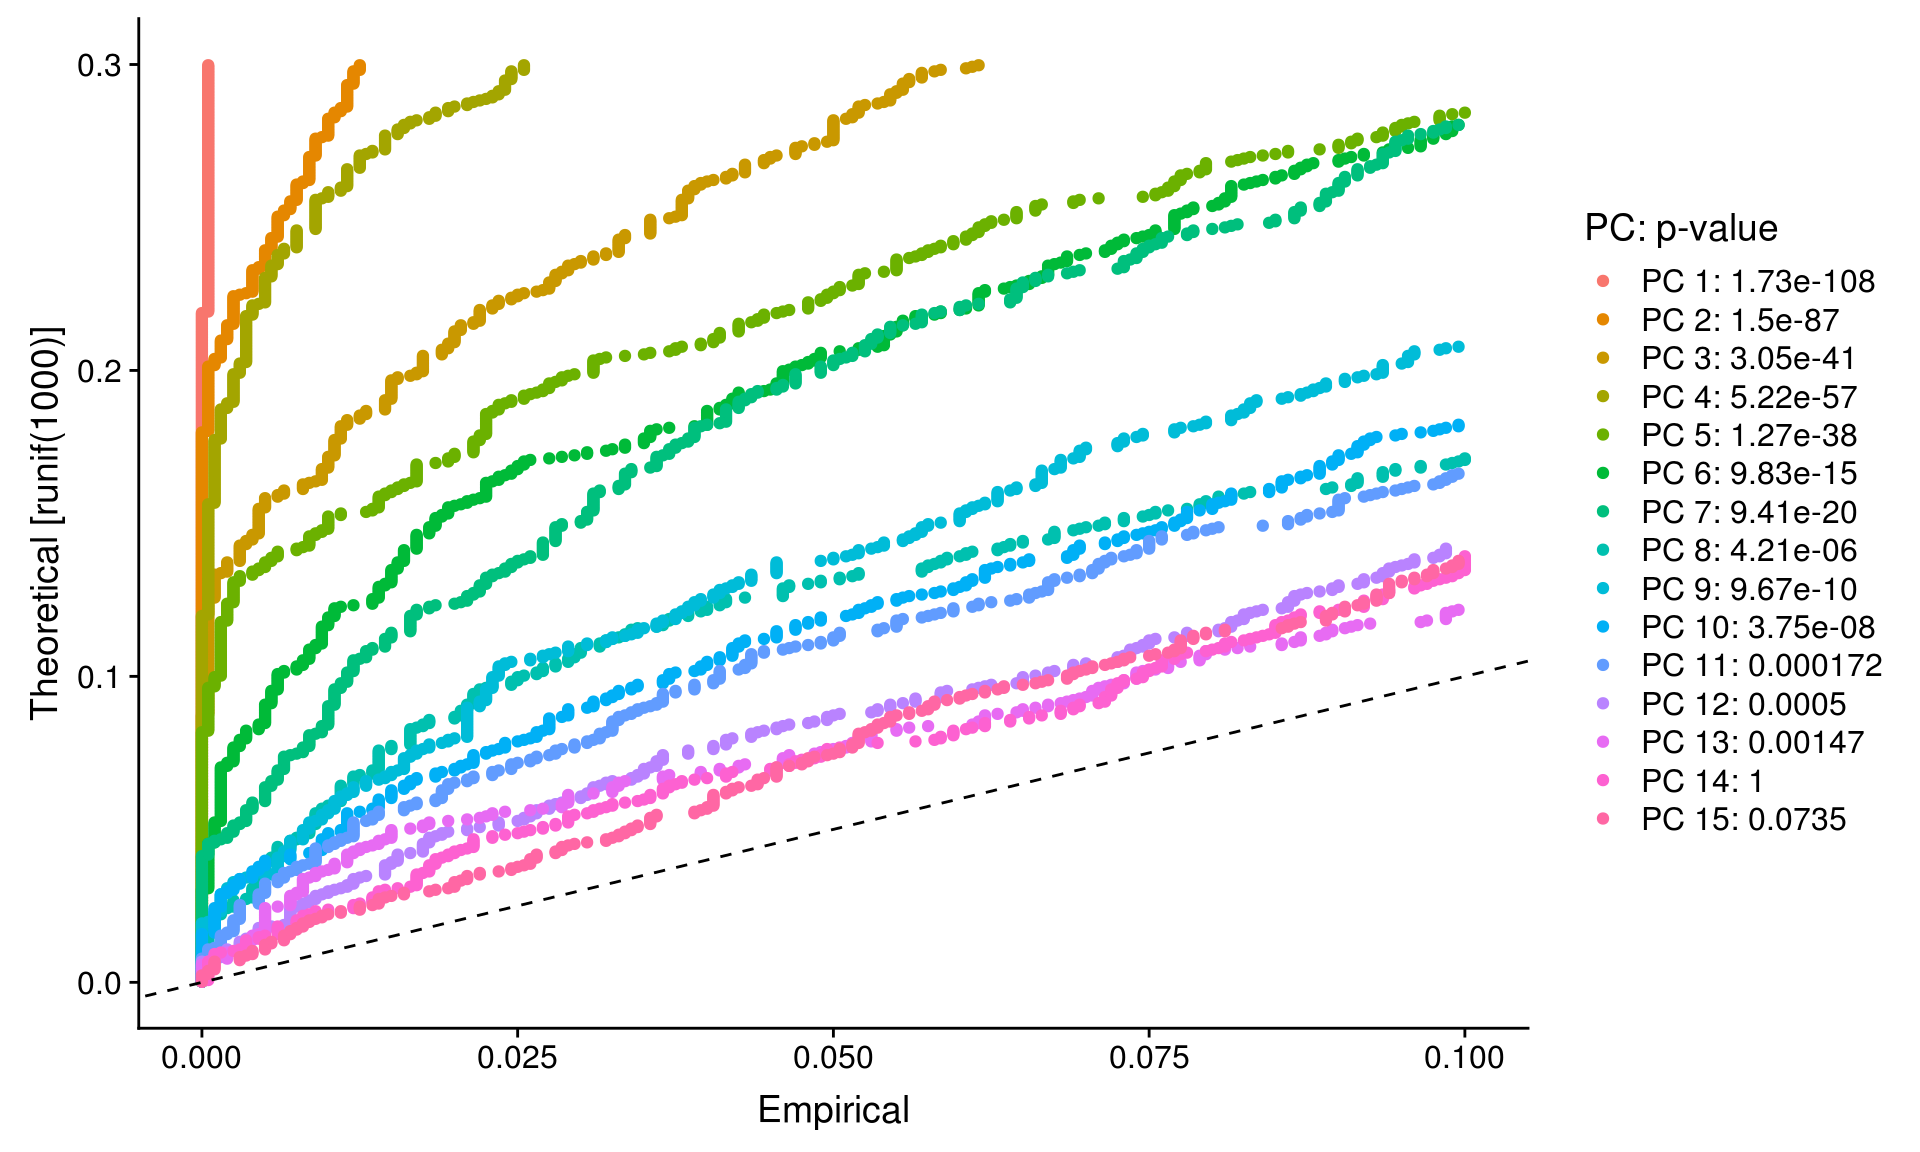
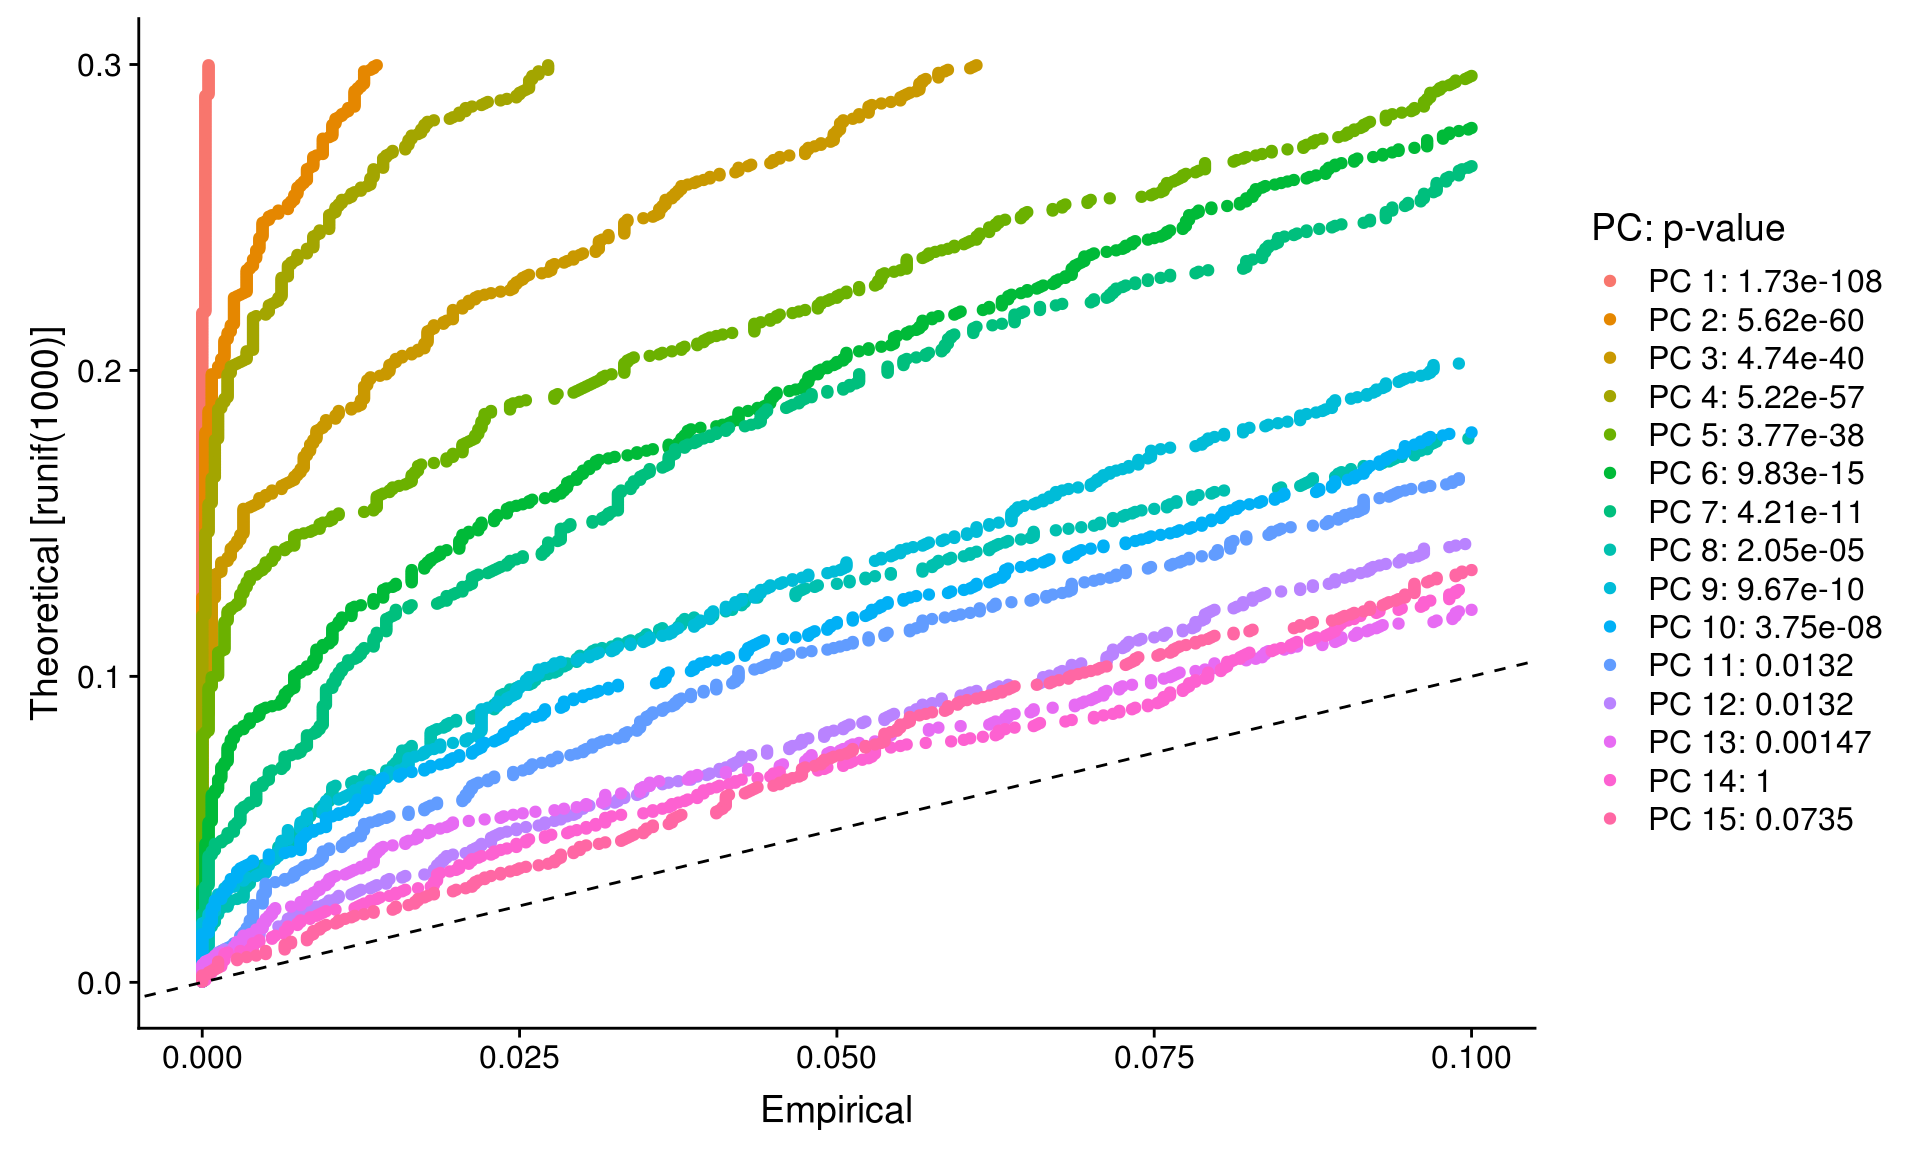
Build site.

diff --git a/docs/analysis.html b/docs/analysis.html
@@ -318,7 +318,7 @@ div.section {
 
 <h1 class="title toc-ignore">Single cell data analysis workshop</h1>
 <h4 class="author"><em>Jon Thompson, Pers lab</em></h4>
-<h4 class="date"><em>2019-05-10 11:22:18</em></h4>
+<h4 class="date"><em>2019-05-10 11:53:46</em></h4>
 
 </div>
 
@@ -422,10 +422,10 @@ This reproducible <a href="http://rmarkdown.rstudio.com">R Markdown</a> analysis
 <div class="panel panel-default">
 <div class="panel-heading">
 <p class="panel-title">
-<a data-toggle="collapse" data-parent="#workflowr-checks" href="#strongRepositoryversionstrongahrefhttpsgithubcomJonThom190510scWorkshoptree9b77751413f883f8f324be34da689f8a667f1469targetblank9b77751a"> <span class="glyphicon glyphicon-ok text-success" aria-hidden="true"></span> <strong>Repository version:</strong> <a href="https://github.com/JonThom/190510-scWorkshop/tree/9b77751413f883f8f324be34da689f8a667f1469" target="_blank">9b77751</a> </a>
+<a data-toggle="collapse" data-parent="#workflowr-checks" href="#strongRepositoryversionstrongahrefhttpsgithubcomJonThom190510scWorkshoptreec43c860e50f1f5aa8c57e308265f41d38402e534targetblankc43c860a"> <span class="glyphicon glyphicon-ok text-success" aria-hidden="true"></span> <strong>Repository version:</strong> <a href="https://github.com/JonThom/190510-scWorkshop/tree/c43c860e50f1f5aa8c57e308265f41d38402e534" target="_blank">c43c860</a> </a>
 </p>
 </div>
[2 lines of base64/hex data omitted]
 <div class="panel-body">
 <p>
 Great! You are using Git for version control. Tracking code development and connecting the code version to the results is critical for reproducibility. The version displayed above was the version of the Git repository at the time these results were generated. <br><br> Note that you need to be careful to ensure that all relevant files for the analysis have been committed to Git prior to generating the results (you can use <code>wflow_publish</code> or <code>wflow_git_commit</code>). workflowr only checks the R Markdown file, but you know if there are other scripts or data files that it depends on. Below is the status of the Git repository when the results were generated:
@@ -473,6 +473,40 @@ Message
 </tr>
 </thead>
 <tbody>
+<tr>
+<td>
+Rmd
+</td>
+<td>
+<a href="https://github.com/JonThom/190510-scWorkshop/blob/c43c860e50f1f5aa8c57e308265f41d38402e534/analysis/analysis.Rmd" target="_blank">c43c860</a>
+</td>
+<td>
+JonThom
+</td>
+<td>
+2019-05-10
+</td>
+<td>
+wflow_publish(“./analysis/analysis.Rmd”)
+</td>
+</tr>
+<tr>
+<td>
+html
+</td>
+<td>
+<a href="https://rawcdn.githack.com/JonThom/190510-scWorkshop/8e266424e41b82584fb463fdaaf8372ebd8a54f0/docs/analysis.html" target="_blank">8e26642</a>
+</td>
+<td>
+JonThom
+</td>
+<td>
+2019-05-10
+</td>
+<td>
+Build site.
+</td>
+</tr>
 <tr>
 <td>
 html
@@ -1198,7 +1232,7 @@ JonThom
 <ol style="list-style-type: decimal">
 <li>Select PCs based on whether interesting genes score highly on them (supervised)</li>
 <li><code>JackStraw</code>: use a statistical test based on a random null model to determine which PCs capture ‘real’ variation versus noise. Time-consuming but unsupervised and rigourous.</li>
-<li><code>ElbowPlot</code>: Use an elbbow plot to select PCs that explain most of the variance in the dataset. A fast heuristic that is commonly used.</li>
+<li><code>ElbowPlot</code>: Use an elbow plot to select PCs that explain most of the variance in the dataset. A fast heuristic that is commonly used.</li>
 </ol>
 <div id="select-pcs-based-on-interesting-genes" class="section level3">
 <h3>Select PCs based on interesting genes</h3>
@@ -1294,9 +1328,8 @@ JonThom
 <li>Randomly ‘scramble’ the gene’s scores across cells and calculate projected PCA loadings for these ‘scambled’ genes. Do this many (200+) times.</li>
 <li>Compare the PCA scores for the ‘random’ genes with the observed PCA scores to obtain a p-value for each gene’s association with each principal component.</li>
 </ol>
-<pre class="r"><code># NOT RUN
-pbmc &lt;- JackStraw(pbmc, 
-                  num.replicate = 100)</code></pre>
+<pre class="r"><code>pbmc &lt;- JackStraw(pbmc, 
+                  num.replicate = 200)</code></pre>
 <ol start="3" style="list-style-type: decimal">
 <li>Use the p-values for each gene per PC to perform a proportion test comparing the number of features with a p-value below a particular threshold (score.thresh), compared with the proportion of features expected under a uniform distribution of p-values. This gives a p-value for each principal component.</li>
 </ol>
@@ -1304,7 +1337,7 @@ pbmc &lt;- JackStraw(pbmc,
                        dims = 1:20)</code></pre>
 <p>The <code>JackStrawPlot</code> function provides a visualization tool for comparing the distribution of p-values for each PC with a uniform distribution (dashed line). ‘Significant’ PCs will show a strong enrichment of features with low p-values (solid curve above the dashed line). In this case it appears that there is a sharp drop-off in significance after the first 10-12 PCs.</p>
 <pre class="r"><code>JackStrawPlot(pbmc, dims = 1:15)</code></pre>
-<pre><code>Warning: Removed 23369 rows containing missing values (geom_point).</code></pre>
+<pre><code>Warning: Removed 23405 rows containing missing values (geom_point).</code></pre>
 <p><img src="figure/analysis.Rmd/unnamed-chunk-23-1.png" width="960" style="display: block; margin: auto;" /></p>
 <p>
 <button type="button" class="btn btn-default btn-xs btn-workflowr btn-workflowr-fig" data-toggle="collapse" data-target="#fig-unnamed-chunk-23-1">
@@ -1400,9 +1433,9 @@ JonThom
 </div>
 <div id="cluster-the-cells" class="section level2">
 <h2>Cluster the cells</h2>
-<p>Seurat v3 applies a graph-based clustering approach, building upon initial strategies in (<a href="http://www.cell.com/abstract/S0092-8674(15)00549-8">Macosko et al</a>). Importantly, the distance metric which drives the clustering analysis (based on previously identified PCs) remains the same. However, our approach to partioning the cellular distance matrix into clusters has dramatically improved. Our approach was heavily inspired by recent manuscripts which applied graph-based clustering approaches to scRNA-seq data <a href="http://bioinformatics.oxfordjournals.org/content/early/2015/02/10/bioinformatics.btv088.abstract">SNN-Cliq, Xu and Su, Bioinformatics, 2015</a> and CyTOF data <a href="http://www.ncbi.nlm.nih.gov/pubmed/26095251">PhenoGraph, Levine et al., Cell, 2015</a>. Briefly, these methods embed cells in a graph structure - for example a K-nearest neighbor (KNN) graph, with edges drawn between cells with similar feature expression patterns, and then attempt to partition this graph into highly interconnected ‘quasi-cliques’ or ‘communities’.</p>
+<p>Seurat v3 applies a graph-based clustering approach, building upon initial strategies in (<a href="http://www.cell.com/abstract/S0092-8674(15)00549-8">Macosko et al</a>). Importantly, the distance metric which drives the clustering analysis (based on previously identified PCs) remains the same as in previous Seurat versions. However, the approach to partioning the cellular distance matrix into clusters has dramatically improved. The approach was heavily inspired by recent manuscripts which applied graph-based clustering approaches to scRNA-seq data <a href="http://bioinformatics.oxfordjournals.org/content/early/2015/02/10/bioinformatics.btv088.abstract">SNN-Cliq, Xu and Su, Bioinformatics, 2015</a> and CyTOF data <a href="http://www.ncbi.nlm.nih.gov/pubmed/26095251">PhenoGraph, Levine et al., Cell, 2015</a>. Briefly, these methods embed cells in a graph structure - for example a K-nearest neighbor (KNN) graph, with edges drawn between cells with similar feature expression patterns, and then attempt to partition this graph into highly interconnected ‘quasi-cliques’ or ‘communities’.</p>
 <p>As in <code>PhenoGraph</code>, we first construct a KNN graph based on the euclidean distance in PCA space, and refine the edge weights between any two cells based on the shared overlap in their local neighborhoods (Jaccard similarity). This step is performed using the <code>FindNeighbors</code> function, and takes as input the previously defined dimensionality of the dataset (first 10 PCs).</p>
-<p>To cluster the cells, we next apply modularity optimization techniques such as the Louvain algorithm (default) or SLM <a href="http://dx.doi.org/10.1088/1742-5468/2008/10/P10008">SLM, Blondel et al., Journal of Statistical Mechanics</a>, to iteratively group cells together, with the goal of optimizing the standard modularity function.</p>
+<p>To cluster the cells, Seurat then applies modularity optimization techniques such as the Louvain algorithm (default) or SLM <a href="http://dx.doi.org/10.1088/1742-5468/2008/10/P10008">SLM, Blondel et al., Journal of Statistical Mechanics</a>, to iteratively group cells together, with the goal of optimizing the standard modularity function.</p>
 <p>The <code>FindClusters</code> function, which implements this procedure, contains a <code>resolution</code> parameter that sets the ‘granularity’ of the downstream clustering, with increased values leading to a greater number of clusters.</p>
 <ul>
 <li>Setting this parameter between 0.4-1.2 typically returns good results for single-cell datasets of around 3K cells. Optimal resolution often increases for larger datasets.</li>
@@ -1505,7 +1538,7 @@ JonThom
 <h2>Finding differentially expressed features (cluster biomarkers)</h2>
 <p>Seurat can help you find markers that define clusters via differential expression.</p>
 <p>FindAllMarkers automates this process for all clusters, but you can also test groups of clusters vs. each other, or against all cells.</p>
-<p>Seurat has several tests for differential expression which can be set with the test.use parameter (see our <a href="http://satijalab01.nygenome.org/seurat/v3.0/de_vignette.html">DE vignette</a> for details).</p>
+<p>Seurat has several tests for differential expression which can be set with the test.use parameter (see the Seurat <a href="http://satijalab01.nygenome.org/seurat/v3.0/de_vignette.html">DE vignette</a> for details).</p>
 <p>Note that:</p>
 <ul>
 <li>By default, unless you specify otherwise <code>FindClusters</code> identifies positive <em>and negative markers</em> of a single cluster (specified in ident.1), compared to all other cells</li>
@@ -1518,38 +1551,38 @@ cluster1.markers &lt;- FindMarkers(pbmc,
                                 ident.1 = 1, 
                                 test.use  =&quot;wilcox&quot;,
                                 only.pos = T,
-                                max.cells.per.ident=250,
+                                max.cells.per.ident=500,
                                 random.seed=randomSeed,
                                 min.pct = 0.25)
 head(cluster1.markers, n = 5)</code></pre>
-<pre><code>              p_val avg_logFC pct.1 pct.2    p_val_adj
-S100A9 4.998348e-86  3.854759 0.996 0.217 6.854735e-82
-S100A8 4.256255e-85  3.796943 0.973 0.124 5.837028e-81
-LYZ    1.681689e-81  3.143552 1.000 0.518 2.306268e-77
-LGALS2 6.584607e-76  2.634321 0.907 0.061 9.030130e-72
-FCN1   2.484055e-72  2.335357 0.952 0.153 3.406633e-68</code></pre>
+<pre><code>               p_val avg_logFC pct.1 pct.2     p_val_adj
+S100A8 1.720457e-165  3.796943 0.973 0.124 2.359435e-161
+S100A9 3.451515e-165  3.854759 0.996 0.217 4.733407e-161
+LYZ    3.362404e-160  3.143552 1.000 0.518 4.611201e-156
+LGALS2 7.494708e-151  2.634321 0.907 0.061 1.027824e-146
+TYROBP 3.918747e-147  2.100770 0.994 0.267 5.374170e-143</code></pre>
 <pre class="r"><code># find all markers distinguishing cluster 5 from clusters 0 and 3
 cluster5.markers &lt;- FindMarkers(pbmc, 
                                 ident.1 = 5, 
                                 ident.2 = c(0, 3), 
                                 test.use  =&quot;wilcox&quot;,
                                 only.pos = T,
-                                max.cells.per.ident=250,
+                                max.cells.per.ident=500,
                                 random.seed=randomSeed,
                                 min.pct = 0.25)
 head(cluster5.markers, n = 5)</code></pre>
-<pre><code>              p_val avg_logFC pct.1 pct.2    p_val_adj
-TYROBP 4.755568e-77  3.239007 1.000 0.133 6.521786e-73
-FCER1G 2.124871e-76  3.286471 1.000 0.101 2.914048e-72
-FCGR3A 8.797046e-76  2.901285 0.969 0.047 1.206427e-71
-LST1   8.597783e-75  3.310554 1.000 0.164 1.179100e-70
-AIF1   5.072484e-74  2.851443 1.000 0.228 6.956404e-70</code></pre>
+<pre><code>               p_val avg_logFC pct.1 pct.2     p_val_adj
+FCGR3A 1.419346e-121  2.901285 0.969 0.047 1.946491e-117
+IFITM3 1.661439e-118  2.705380 0.975 0.057 2.278497e-114
+CFD    2.030728e-117  2.355001 0.939 0.042 2.784940e-113
+TYROBP 7.442123e-115  3.239007 1.000 0.133 1.020613e-110
+CD68   6.798458e-114  2.109985 0.920 0.038 9.323405e-110</code></pre>
 <pre class="r"><code># find markers for every cluster compared to all remaining cells, report only the positive ones
 pbmc.markers &lt;- FindAllMarkers(pbmc, 
                                test.use=&quot;wilcox&quot;,
                                only.pos = TRUE, 
                                min.pct = 0.25, 
-                               max.cells.per.ident=250,
+                               max.cells.per.ident=500,
                                random.seed=randomSeed,
                                logfc.threshold = 0.25)</code></pre>
 <pre><code>Calculating cluster 0</code></pre>
@@ -1564,26 +1597,26 @@ pbmc.markers &lt;- FindAllMarkers(pbmc,
 <pre class="r"><code>pbmc.markers %&gt;% group_by(cluster) %&gt;% top_n(n = 2, wt = avg_logFC)</code></pre>
 <pre><code># A tibble: 18 x 7
 # Groups:   cluster [9]
-      p_val avg_logFC pct.1 pct.2 p_val_adj cluster gene    
-      &lt;dbl&gt;     &lt;dbl&gt; &lt;dbl&gt; &lt;dbl&gt;     &lt;dbl&gt; &lt;fct&gt;   &lt;chr&gt;   
- 1 1.95e-32     0.857 0.931 0.56   2.67e-28 0       LDHB    
- 2 5.26e-20     0.931 0.434 0.089  7.22e-16 0       CCR7    
- 3 5.00e-86     3.85  0.996 0.217  6.85e-82 1       S100A9  
- 4 4.26e-85     3.80  0.973 0.124  5.84e-81 1       S100A8  
- 5 5.61e-83     2.99  0.936 0.042  7.69e-79 2       CD79A   
- 6 4.47e-47     2.48  0.62  0.023  6.12e-43 2       TCL1A   
- 7 1.28e-27     0.891 0.947 0.494  1.75e-23 3       IL32    
- 8 4.69e-11     0.911 0.379 0.136  6.43e- 7 3       AQP3    
- 9 3.37e-69     2.14  0.961 0.232  4.62e-65 4       CCL5    
-10 6.18e-37     2.06  0.588 0.051  8.47e-33 4       GZMK    
-11 4.07e-69     2.28  0.969 0.135  5.59e-65 5       FCGR3A  
-12 9.40e-65     2.17  1     0.314  1.29e-60 5       LST1    
-13 5.76e-75     3.39  0.986 0.07   7.90e-71 6       GZMB    
-14 3.42e-65     3.47  0.959 0.134  4.69e-61 6       GNLY    
-15 4.20e-46     2.69  0.806 0.012  5.76e-42 7       FCER1A  
-16 1.26e-17     1.99  1     0.513  1.73e-13 7       HLA-DPB1
-17 1.68e-49     5.94  1     0.024  2.30e-45 8       PPBP    
-18 1.68e-49     5.02  1     0.01   2.30e-45 8       PF4     </code></pre>
+       p_val avg_logFC pct.1 pct.2 p_val_adj cluster gene    
+       &lt;dbl&gt;     &lt;dbl&gt; &lt;dbl&gt; &lt;dbl&gt;     &lt;dbl&gt; &lt;fct&gt;   &lt;chr&gt;   
+ 1 4.29e- 68     0.857 0.931 0.56  5.88e- 64 0       LDHB    
+ 2 3.75e- 36     0.931 0.434 0.089 5.15e- 32 0       CCR7    
+ 3 1.72e-165     3.80  0.973 0.124 2.36e-161 1       S100A8  
+ 4 3.45e-165     3.85  0.996 0.217 4.73e-161 1       S100A9  
+ 5 3.57e-148     2.99  0.936 0.042 4.90e-144 2       CD79A   
+ 6 1.61e- 83     2.48  0.62  0.023 2.21e- 79 2       TCL1A   
+ 7 2.46e- 49     0.891 0.947 0.494 3.37e- 45 3       IL32    
+ 8 5.72e- 17     0.911 0.379 0.136 7.84e- 13 3       AQP3    
+ 9 2.22e-117     2.14  0.961 0.232 3.05e-113 4       CCL5    
+10 1.45e- 67     2.06  0.588 0.051 1.99e- 63 4       GZMK    
+11 3.52e- 97     2.28  0.969 0.135 4.82e- 93 5       FCGR3A  
+12 1.65e- 90     2.17  1     0.314 2.26e- 86 5       LST1    
+13 2.40e-117     3.39  0.986 0.07  3.29e-113 6       GZMB    
+14 3.49e- 95     3.47  0.959 0.134 4.79e- 91 6       GNLY    
+15 1.76e- 75     2.69  0.806 0.012 2.42e- 71 7       FCER1A  
+16 4.75e- 19     1.99  1     0.513 6.52e- 15 7       HLA-DPB1
+17 5.75e- 81     5.02  1     0.01  7.89e- 77 8       PF4     
+18 2.38e- 77     5.94  1     0.024 3.27e- 73 8       PPBP    </code></pre>
 <p>Seurat includes several tools for visualizing marker expression.</p>
 <ul>
 <li><code>VlnPlot</code> shows expression probability distributions across clusters</li>
